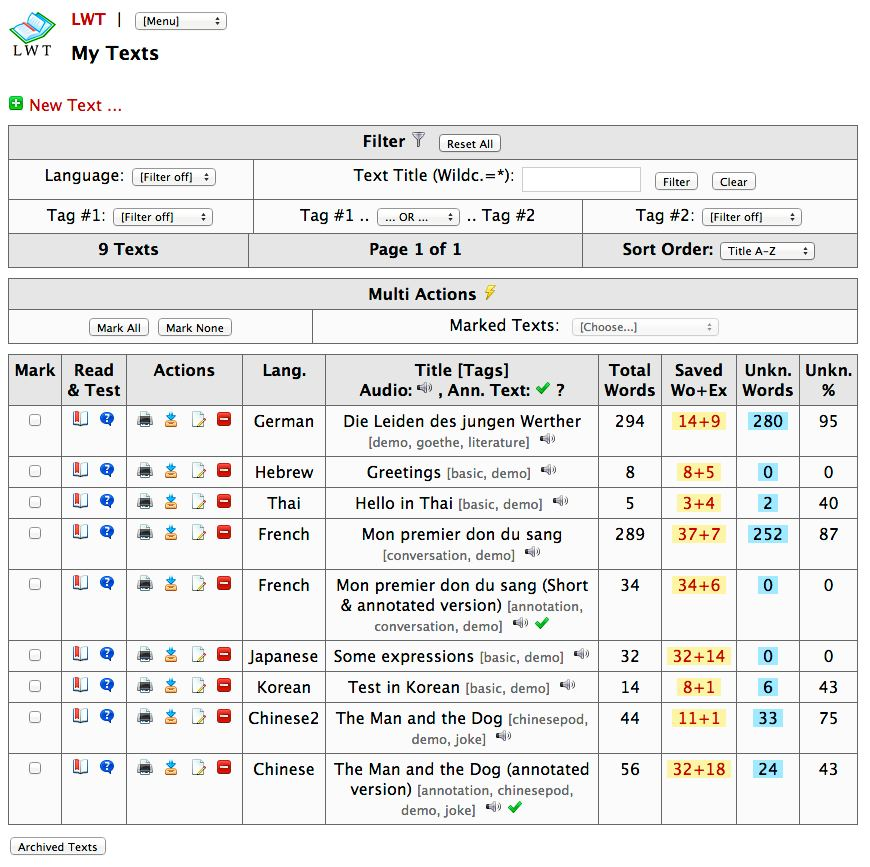
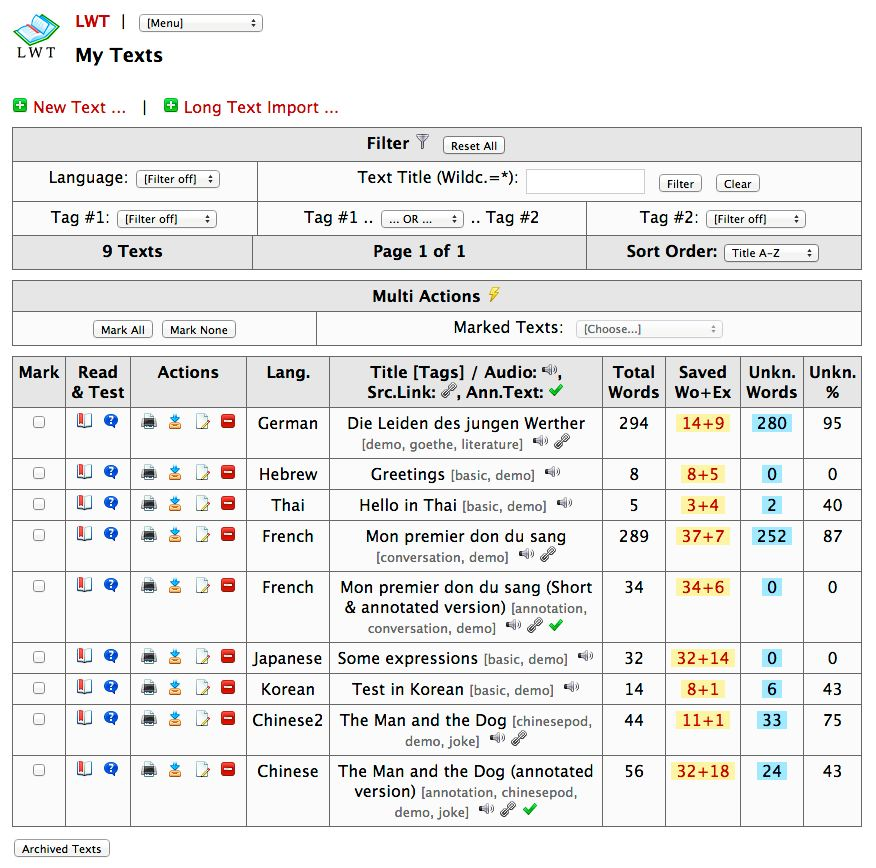
Version 1.5.9 PUBLISHED

diff --git a/info.htm b/info.htm
@@ -203,7 +203,7 @@ $(document).ready( function() {
 
       <dd>
         <ul>
-          <li>The current version is <b>1.5.9 (July 04 2013)</b>.
+          <li>The current version is <b>1.5.9 (July 03 2013)</b>.
           </li>
 
           <li>
@@ -362,10 +362,18 @@ $(document).ready( function() {
 								</ul>
 							</li>
 							<li>
+								LWT Tutorials in other languages 
+								<ul>
+									<li>
+										<a href="http://rightstuff.luminousspice.com/2013/07/how_to_lwt_install/" target="_blank">LWT installation tutorial for <b>Japanese</b> Users</a>
+									</li>
+								</ul>
+							</li>
+							<li>
 								Installing LWT on other operating systems 
 								<ul>
 									<li>
-										<a href="http://expertscolumn.com/content/installing-learning-texts-ubuntu" target="_blank">Installing Learning With Texts on Ubuntu</a>
+										<a href="http://expertscolumn.com/content/installing-learning-texts-ubuntu" target="_blank">Installing Learning With Texts on <b>Ubuntu</b></a>
 									</li>
 								</ul>
 							</li>
@@ -408,7 +416,7 @@ $(document).ready( function() {
           </li>
 
           <li><b><u>MOST IMPORTANT:</u><br /><br /> To run LWT, you'll need: </b><br /><br />
-          <b>(1) A modern web browser.</b><ul><li>Windows: Use <a href="http://www.google.com/chrome/" target="_blank">Chrome</a> or <a href="http://www.mozilla.org/firefox" target="_blank">Firefox</a>. - MS Internet Explorer is not recommended.</li><li>OS X: Use <a href="http://www.google.com/chrome/" target="_blank">Chrome</a> or <a href="http://www.mozilla.org/firefox" target="_blank">Firefox</a> (Adobe Flash must be installed and enabled for MP3 playback in Firefox). - Safari does not display frame sets properly and is not recommended. </li><li>Linux: Use <a href="http://www.google.com/chrome/" target="_blank">Chrome</a> or <a href="http://www.mozilla.org/firefox" target="_blank">Firefox</a> (Adobe Flash must be installed and enabled for MP3 playback in Firefox). - Other browsers are not recommended.</li></ul><br />
+          <b>(1) A modern web browser.</b><ul><li>Windows: Use <a href="http://www.google.com/chrome/" target="_blank">Chrome</a> or <a href="http://www.mozilla.org/firefox" target="_blank">Firefox</a>. - MS Internet Explorer is not recommended.</li><li>OS X: Use <a href="http://www.google.com/chrome/" target="_blank">Chrome</a> or <a href="http://www.mozilla.org/firefox" target="_blank">Firefox</a> (Adobe Flash must be installed and enabled for MP3 playback in Firefox). - Safari does not display frame sets properly and is not recommended. </li><li>Linux: Use <a href="http://www.google.com/chrome/" target="_blank">Chrome</a> or <a href="http://www.mozilla.org/firefox" target="_blank">Firefox</a> (Adobe Flash must be installed and enabled for MP3 playback in Firefox). - Other browsers are not recommended.</li></ul><b>Remark:</b> Firefox needs the <a href="https://addons.mozilla.org/de/firefox/addon/html-ruby/" target="_blank">HTML Ruby Add-On</a> to display ruby markup properly.<br /><br />
           <b>(2) A local web server.</b><br />An easy way to install a local web server are preconfigured packages like<ul><li><a href="http://www.easyphp.org/" target="_blank">EasyPHP</a> (Windows), </li><li><a href="http://mamp.info/en/index.html" target="_blank">MAMP</a> (Mac OS X), or</li><li><a href="http://www.apachefriends.org/en/xampp.html" target="_blank">XAMPP</a> (Windows, Mac OS X, Linux).</li><li><a href="http://expertscolumn.com/content/installing-learning-texts-ubuntu" target="_blank">tasksel</a> &amp; <a href="http://expertscolumn.com/content/installing-learning-texts-ubuntu" target="_blank">lamp-server</a> (Ubuntu, etc.).</li></ul><br />
           <b>(3) The LWT Application.</b><br />The ZIP Archive can be downloaded <a href="http://sourceforge.net/projects/lwt/files/" target="_blank">here</a>.<br />The installation is explained<ul><li><a href="#installwin">here (Windows)</a>,</li><li><a href="#installmac">here (Mac OS X)</a> and</li><li><a href="http://expertscolumn.com/content/installing-learning-texts-ubuntu" target="_blank">here (Ubuntu, etc.)</a>.</li></ul>
           <br />
@@ -1310,7 +1318,10 @@ Developed by J. P. in 2011, 2012, 2013.
             <img class="grayborder" src="img/05.jpg" alt="Image" />
             <br />
             <br />
-            You can also import a longer text into LWT with the possibility to the split it up into several smaller texts. Click on "Long Text Import". You must specify the maximum number of sentences per text, and the handling of newlines for paragraph detection. It is not possible to specify audio files or URIs.
+            You can also import a longer text into LWT with the possibility to split it up into several smaller texts. Click on "Long Text Import". You must specify the maximum number of sentences per text, and the handling of newlines for paragraph detection. It is not possible to specify audio files or URIs.
+            <br />
+            <br />
+            <img class="grayborder" src="img/33.jpg" alt="Image" />
             <br />
             <br />
           </li>
@@ -1415,7 +1426,7 @@ Developed by J. P. in 2011, 2012, 2013.
             <b>Print a text</b>
             <br />
             <br />
-            Here you print a text. Optional: an inline annotation (translation and/or romanization) of terms that are of specified status(es). This screen is also great to just read a text. 
+            Here you print a text. Optional: an inline annotation (translation and/or romanization) of terms that are of specified status(es). This screen is also great to just read or study a text. 
             <br />
             <br />
             Chinese Text with annotation (Romanization/Pinyin and translation):
@@ -2394,7 +2405,7 @@ with audioplayer", if needed.</li>
 
       <dd>
         <ul>
-        	<li>1.5.9 (July 04 2013):<br />
+        	<li>1.5.9 (July 03 2013):<br />
         	<b>New Feature:</b> Long Text Import: Importing a long text via file upload or from a text box, with splitting options.<br />
         	Possibility to save the source URI with an active or archived text.<br />
         	Missing code in tag management stylesheet restored.<br />

diff --git a/upload_words.php b/upload_words.php
@@ -240,7 +240,7 @@ make_score_random_insert_update('id') . ')',"Imported");
 	Either specify a <b>File to upload</b>:<br />
 	<input name="thefile" type="file" /><br /><br />
 	<b>Or</b> type in or paste from clipboard (do <b>NOT</b> specify file):<br />
-	<textarea name="Upload" cols="60" rows="25"></textarea> <img src="icn/status-busy.png" title="Field must not be empty" alt="Field must not be empty" />
+	<textarea name="Upload" cols="60" rows="25"></textarea>
 	</td>
 	</tr>
 	<tr>

diff --git a/utilities.inc.php b/utilities.inc.php
@@ -19,7 +19,7 @@ Plus (at end): Database Connect, .. Select, .. Updates
 
 function get_version() {
 	global $debug;
-	return '1.5.9 (July 04 2013)'  . 
+	return '1.5.9 (July 03 2013)'  . 
 	($debug ? ' <span class="red">DEBUG</span>' : '');
 }
 
